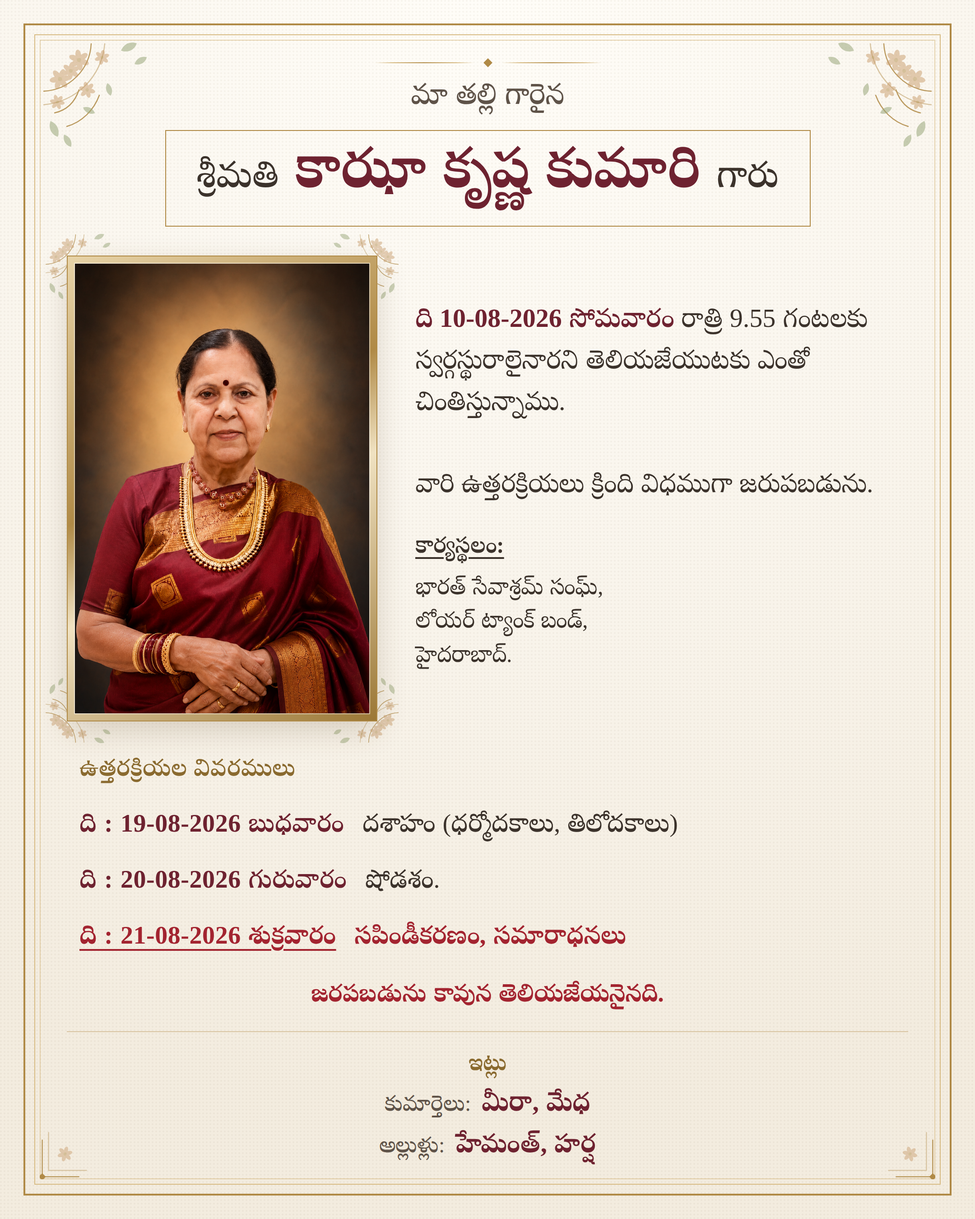
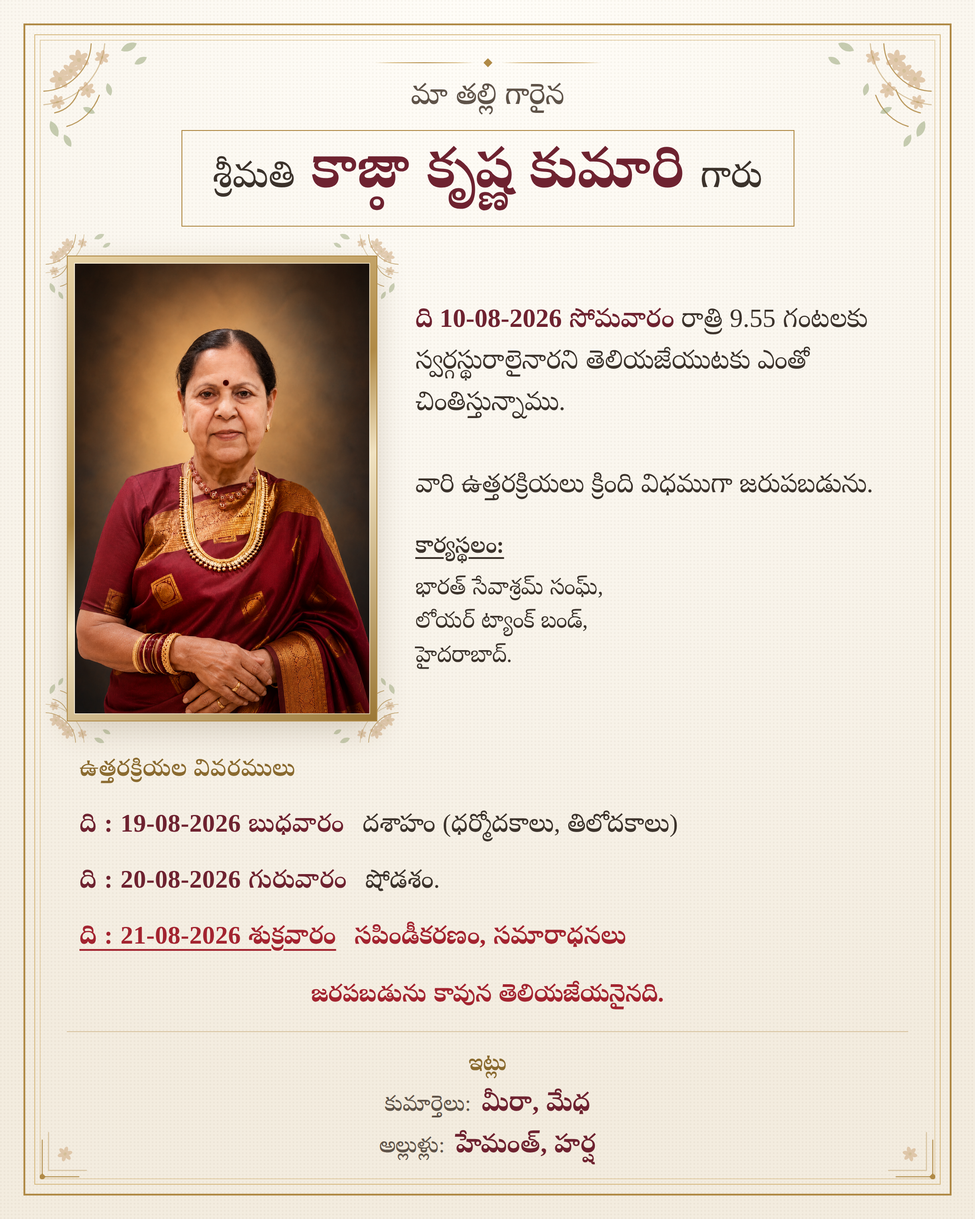
Write the surname's z sound with the Telugu nukta
The family's example (జ఼ోన్ ZONE, జ఼ిప్ ZIP) shows the z sound written as
జ plus nukta (U+0C3C), so the name becomes కాజ఼ా. The previous ఝ was jha, an
aspirated j, which is a different letter and a different sound.

Verified Noto Serif Telugu carries U+0C3C and positions it correctly beneath
జ; an earlier check appeared to fail only because the test page had no base URL
for its @font-face and silently fell back to a bitmap font.

English romanisation stays Kajha.

Claude-Session: https://claude.ai/code/session_01JVpFT1KiiQzTaMTwnEeLwV

Changed region(s): [[0.1861, 0.1244, 0.8065, 0.1867]]

diff --git a/designs/memorial-invitation-kajha-krishna-kumari/photo-frame-telugu.html b/designs/memorial-invitation-kajha-krishna-kumari/photo-frame-telugu.html
@@ -381,7 +381,7 @@ body{background:#fff}
 </svg>
     <div class="photo-in"><img src="Photo enh chtg.png" alt=""></div>
   </div>
-    <div class="nm"><small>శ్రీమతి</small> కాఝా కృష్ణ కుమారి <small>గారు</small></div>
+    <div class="nm"><small>శ్రీమతి</small> కాజ఼ా కృష్ణ కుమారి <small>గారు</small></div>
     <div class="dates">స్వర్గస్థురాలైన తేదీ — 10-08-2026 సోమవారం</div>
     <div class="orn"><span class="rule"></span><span class="diamond"></span><span class="rule"></span></div>
     <div class="blessing">వారి ఆత్మకు శాంతి కలుగుగాక</div>

diff --git a/designs/memorial-invitation-kajha-krishna-kumari/invitation-telugu.html b/designs/memorial-invitation-kajha-krishna-kumari/invitation-telugu.html
@@ -207,7 +207,7 @@ body{background:#fff}
     <div class="orn"><span class="rule"></span><span class="diamond"></span><span class="rule"></span></div>
     <div class="rel">మా తల్లి గారైన</div>
     <div class="nameplate">
-      <div class="nm"><small>శ్రీమతి</small> కాఝా కృష్ణ కుమారి <small>గారు</small></div>
+      <div class="nm"><small>శ్రీమతి</small> కాజ఼ా కృష్ణ కుమారి <small>గారు</small></div>
     </div>
     <div class="mid">
       <div class="photo" style="--pw:344px;--ph:516px">

diff --git a/designs/memorial-invitation-kajha-krishna-kumari/design.js b/designs/memorial-invitation-kajha-krishna-kumari/design.js
@@ -7,7 +7,7 @@ const CONFIG = {
   relationTe: 'మా తల్లి గారైన',        // 'మా అమ్మమ్మ గారైన' / 'మా నాన్నమ్మ గారైన' etc.
   relationEn: 'Our beloved mother',
   honorificTe: 'శ్రీమతి',
-  nameTe: 'కాఝా కృష్ణ కుమారి',
+  nameTe: 'కాజ఼ా కృష్ణ కుమారి',
   nameSuffixTe: 'గారు',
   honorificEn: 'Smt.',
   nameEn: 'Kajha Krishna Kumari',
